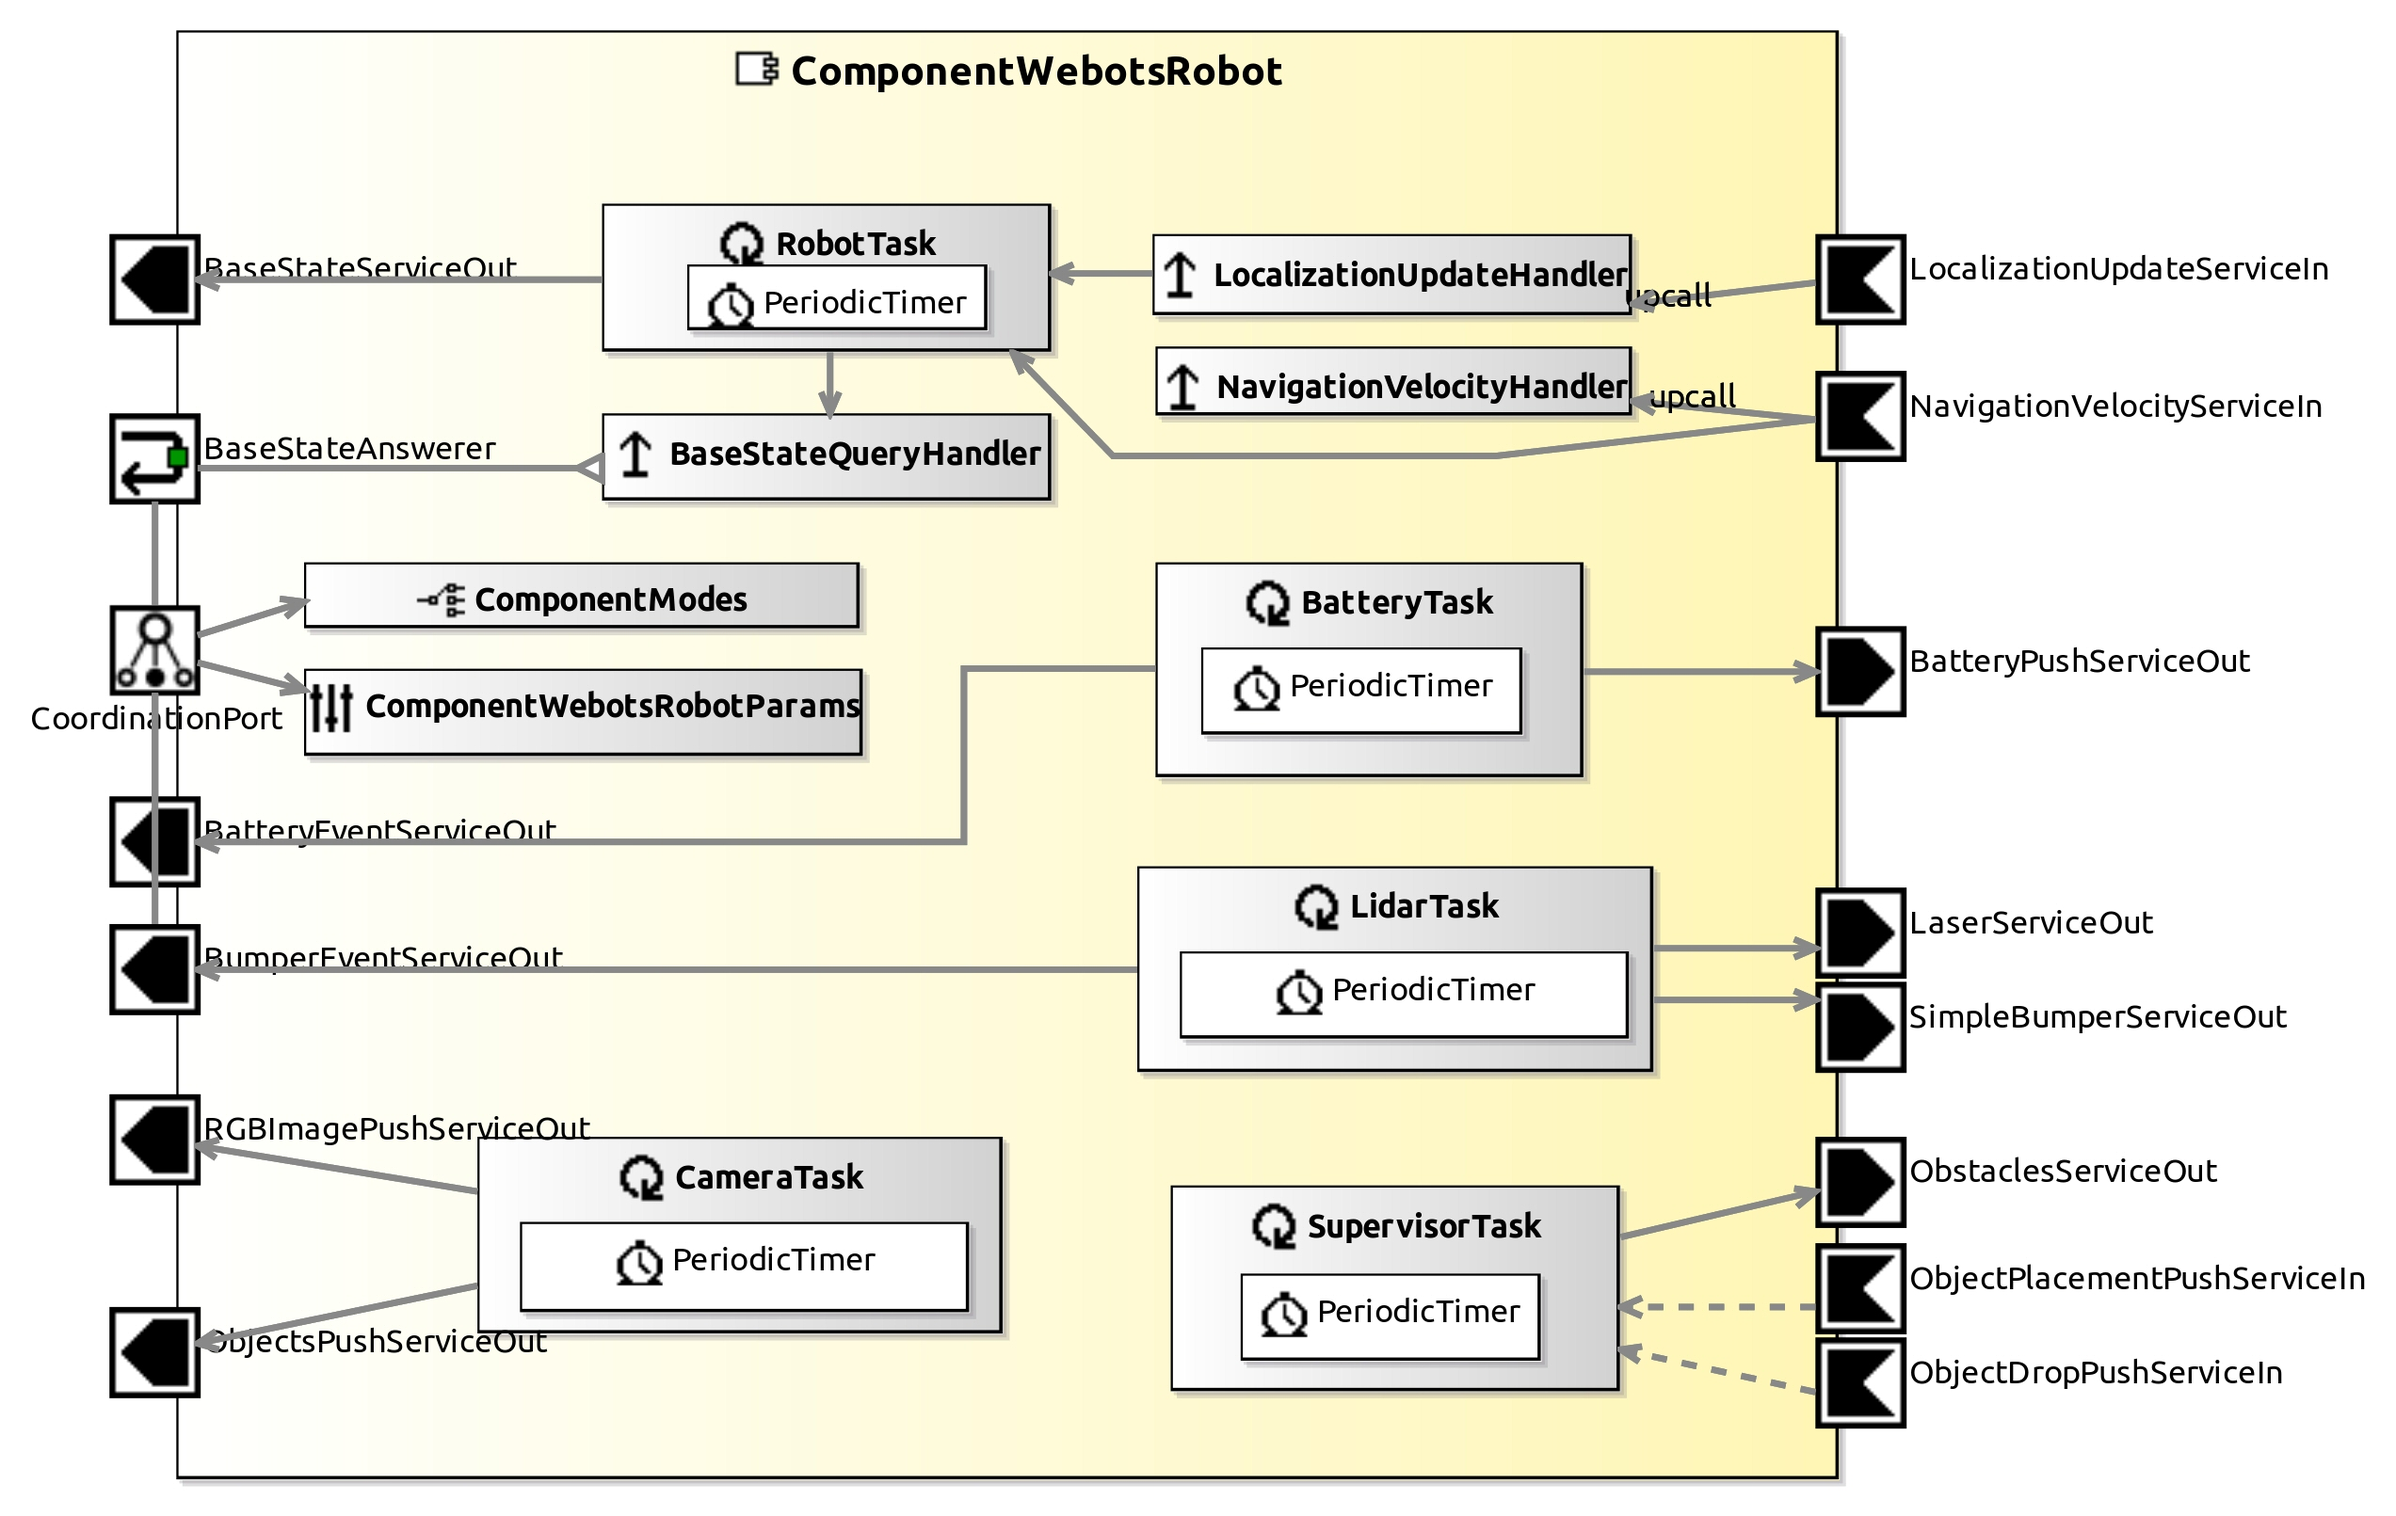
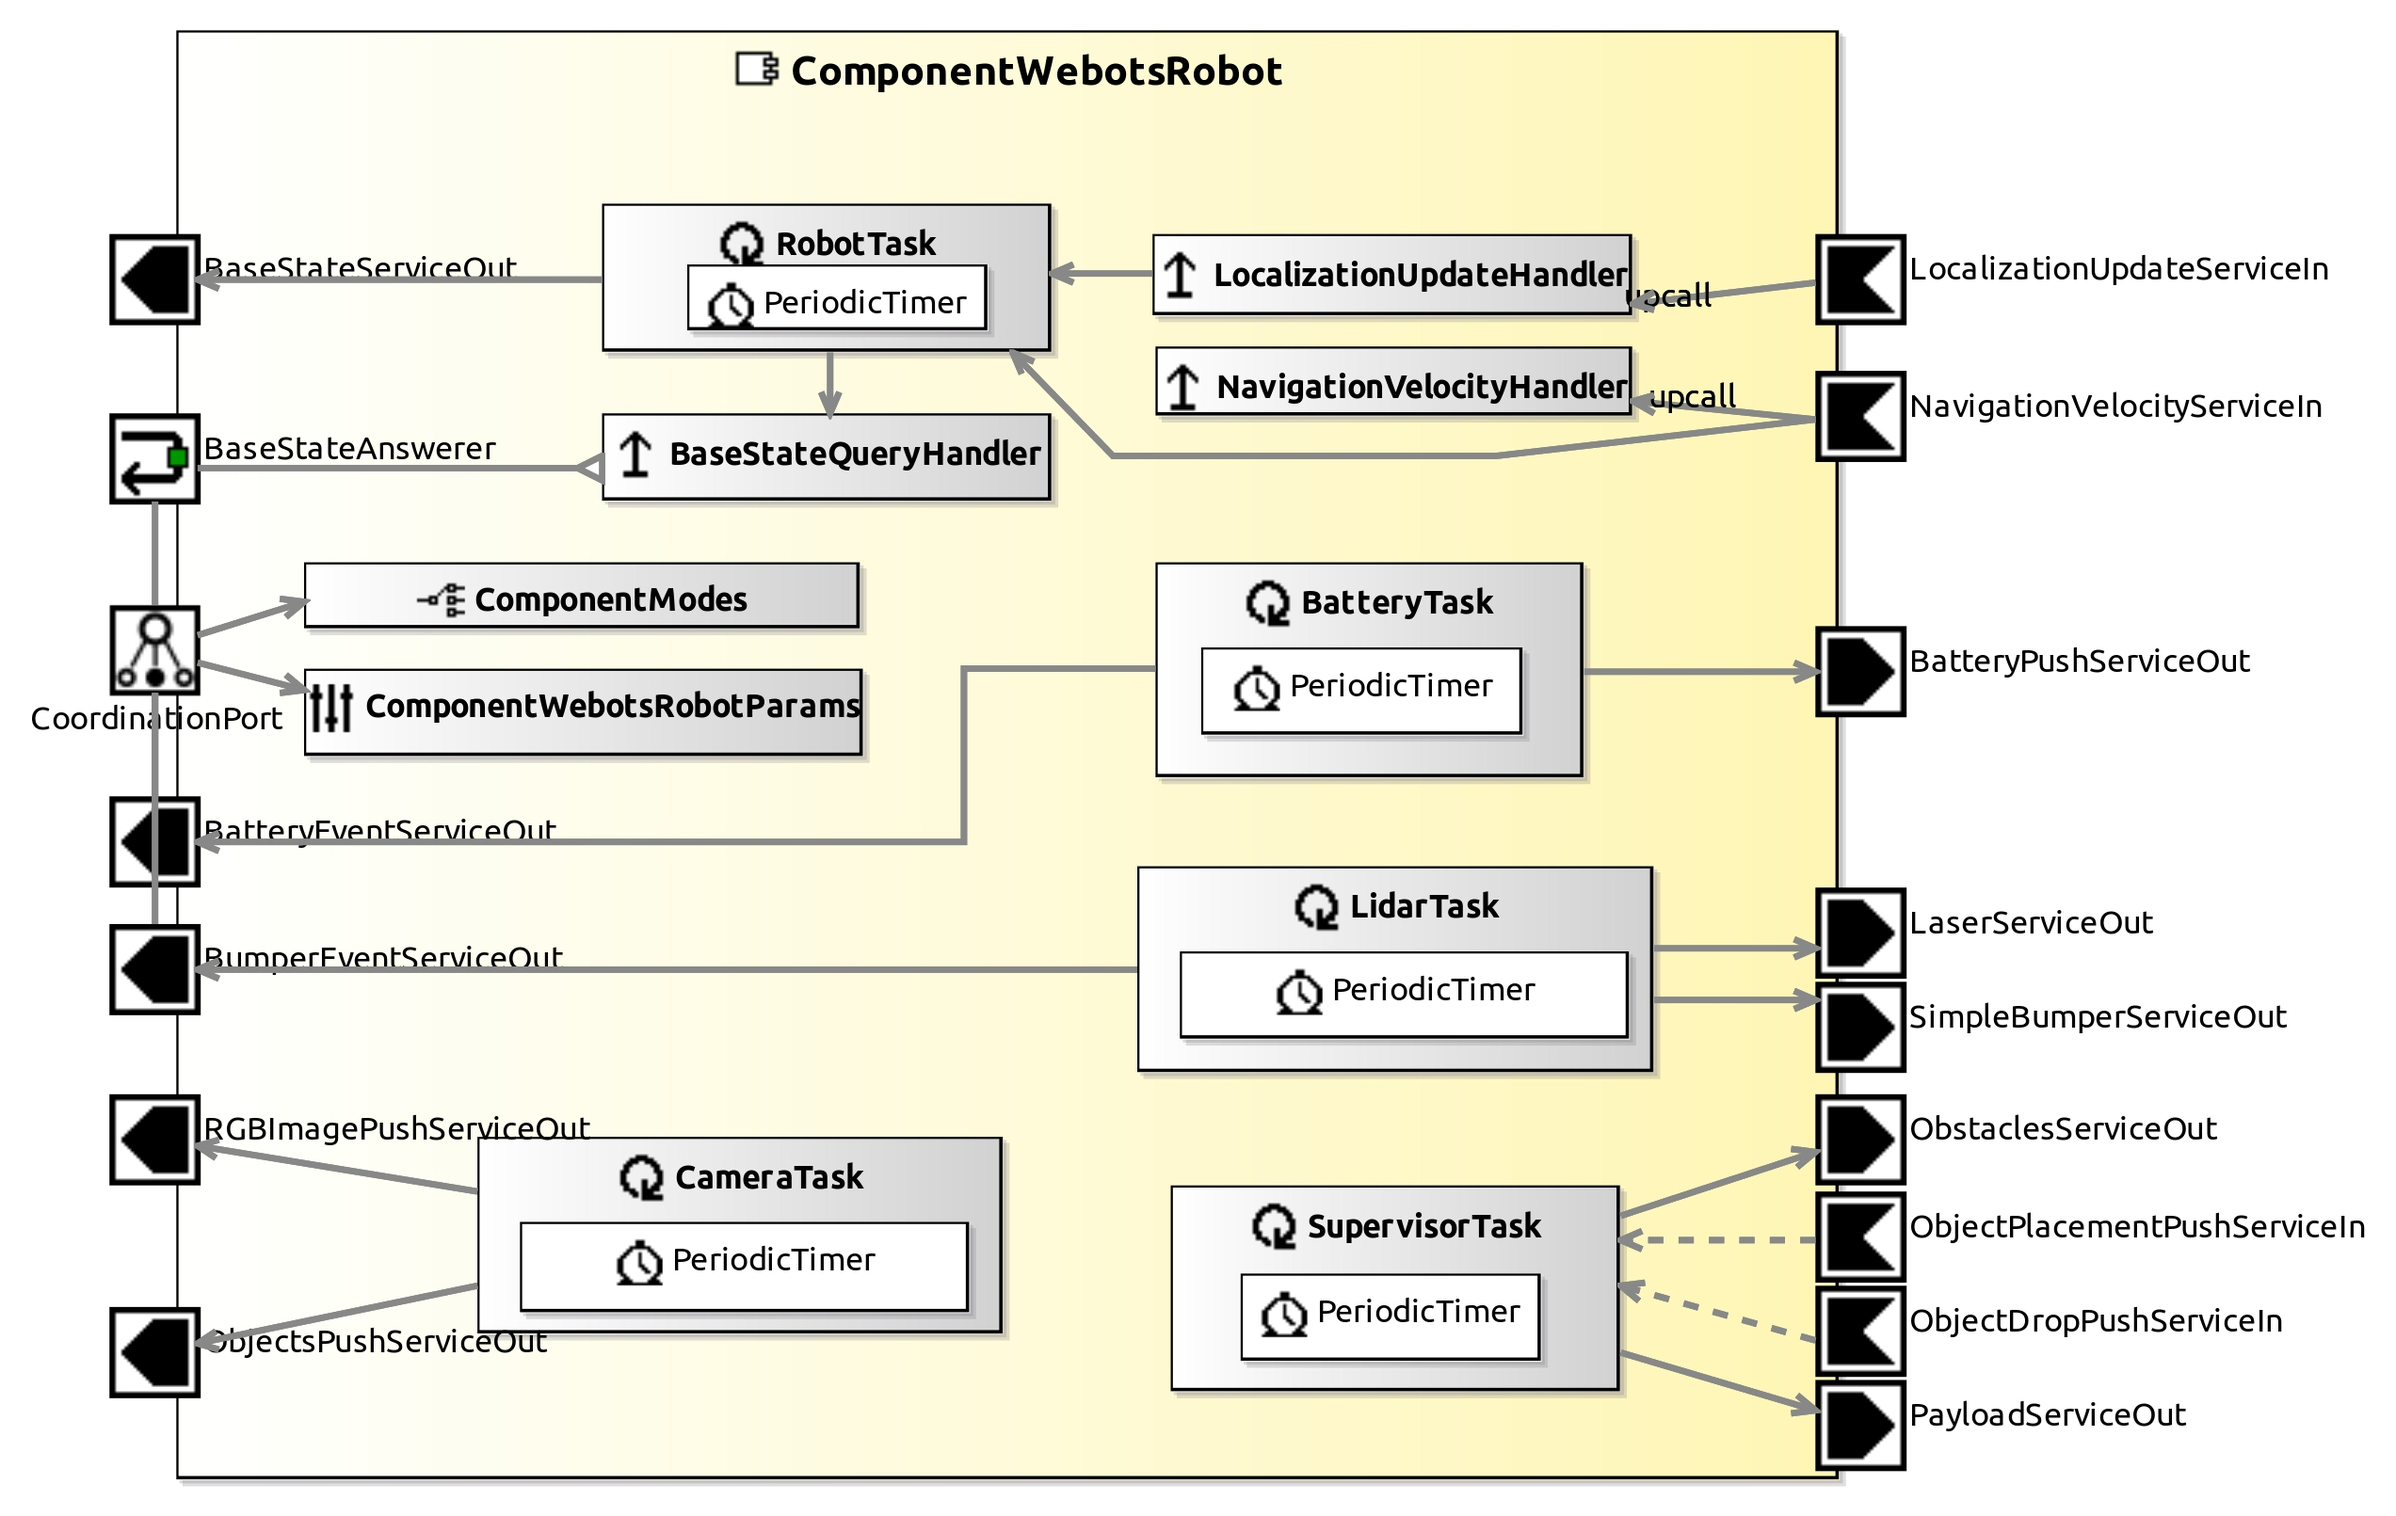
add robot_payload

Changed region(s): [[0.6519, 0.7138, 0.9933, 0.9932]]

diff --git a/ComponentWebotsRobot/smartsoft/src/SupervisorTask.cc b/ComponentWebotsRobot/smartsoft/src/SupervisorTask.cc
@@ -1,7 +1,7 @@
 //--------------------------------------------------------------------------
 // Code generated by the SmartSoft MDSD Toolchain
 // The SmartSoft Toolchain has been developed by:
-//  
+//
 // Service Robotics Research Center
 // University of Applied Sciences Ulm
 // Prittwitzstr. 10
@@ -10,8 +10,8 @@
 // Information about the SmartSoft MDSD Toolchain is available at:
 // www.servicerobotik-ulm.de
 //
-// This file is generated once. Modify this file to your needs. 
-// If you want the toolchain to re-generate this file, please 
+// This file is generated once. Modify this file to your needs.
+// If you want the toolchain to re-generate this file, please
 // delete it before running the code generator.
 //--------------------------------------------------------------------------
 #include "SupervisorTask.hh"
@@ -20,116 +20,138 @@
 #include <iostream>
 
 std::unordered_map<std::string, std::string> SupervisorTask::objects_names = {
-	{"WOODENBOX","WoodenBox"}
-};
+		{"WOODENBOX", "WoodenBox"}};
 
-SupervisorTask::SupervisorTask(SmartACE::SmartComponent *comp) 
-:	SupervisorTaskCore(comp),
-	object_offset({0,0,0})
-{}
-SupervisorTask::~SupervisorTask() 
-{}
+SupervisorTask::SupervisorTask(SmartACE::SmartComponent *comp)
+		: SupervisorTaskCore(comp),
+			object_offset({0, 0, 0}),
+			payload(0)
+{
+}
+SupervisorTask::~SupervisorTask()
+{
+}
 
 void SupervisorTask::on_ObjectDropPushServiceIn(
-		const DomainSpeech::CommObjectDropOutputMessage &input){
-  COMP->mRobotMutex.acquire();
-  
+		const DomainSpeech::CommObjectDropOutputMessage &input)
+{
+	COMP->mRobotMutex.acquire();
+
 	int index = input.getObj_carried_index();
-	if (index < -1) {
+	if (index < -1)
+	{
 		COMP->mRobotMutex.release();
 		return;
 	}
-	else if (index == -1) {
-		for (auto& obj : carried_obj_index) {
-			if (obj > index)
-				index = obj;
+	else if (index == -1)
+	{
+		for (auto &obj : carried_obj_index_mass)
+		{
+			if (obj.first > index)
+				index = obj.first;
 		}
 	}
-	else {
+	else
+	{
 		bool found = false;
-		for (auto& obj : carried_obj_index) {
-			if (obj == index)
+		for (auto &obj : carried_obj_index_mass)
+		{
+			if (obj.first == index)
 				found = true;
-				break;
+			break;
 		}
-		if (!found) {
+		if (!found)
+		{
 			COMP->mRobotMutex.release();
 			return;
 		}
 	}
 
 	webots::Node *root = COMP->_supervisor->getRoot();
-  auto children = root->getField("children");
+	auto children = root->getField("children");
 	children->removeMF(index);
 	int index_to_remove = -2;
-	for (size_t i = 0; i < carried_obj_index.size(); ++i) {
-		if (carried_obj_index[i] > index)
-			carried_obj_index[i]-=1;
-		else if (carried_obj_index[i] == index)
+	for (size_t i = 0; i < carried_obj_index_mass.size(); ++i)
+	{
+		if (carried_obj_index_mass[i].first > index)
+			carried_obj_index_mass[i].first -= 1;
+		else if (carried_obj_index_mass[i].first == index)
 			index_to_remove = i;
 	}
 	if (index_to_remove != -2)
-		carried_obj_index.erase(carried_obj_index.begin()+index_to_remove);
-	
+	{
+		payload -= carried_obj_index_mass[index_to_remove].second;
+		carried_obj_index_mass.erase(carried_obj_index_mass.begin() +
+																 index_to_remove);
+	}
 	COMP->mRobotMutex.release();
 }
 
 void SupervisorTask::on_ObjectPlacementPushServiceIn(
 		const DomainSpeech::CommObjectPlacementOutputMessage &input)
 {
-  COMP->mRobotMutex.acquire();
-	
+	COMP->mRobotMutex.acquire();
+
 	std::string type = objects_names[input.getObjectType()];
-	if (type == "") {
+	if (type == "")
+	{
 		COMP->mRobotMutex.release();
 		return;
 	}
 
 	std::vector<std::string> sizes;
-	for (size_t i = 0; i < input.getObjectSizeSize(); ++i) {
-		if (input.getObjectSizeElemAtPos(i) > object_max_size)	
+	for (size_t i = 0; i < input.getObjectSizeSize(); ++i)
+	{
+		if (input.getObjectSizeElemAtPos(i) > object_max_size)
 			return;
 		sizes.push_back(std::to_string(input.getObjectSizeElemAtPos(i)));
 	}
 	std::array<std::string, 3> robot_position = {
-      std::to_string(COMP->_pose->get_base_position().get_x(1) + object_offset[0]),
-      std::to_string(object_offset[1]),
-      std::to_string(-COMP->_pose->get_base_position().get_y(1) + object_offset[2])
-			};
+			std::to_string(COMP->_pose->get_base_position().get_x(1) + 
+				object_offset[0]),
+			std::to_string(object_offset[1]),
+			std::to_string(-COMP->_pose->get_base_position().get_y(1) + 
+				object_offset[2])};
 
 	std::string obj = type + " {" + "translation " + robot_position[0] + " " +
-		robot_position[1] + " " + robot_position[2] + " size ";
-	
-	for (auto& s : sizes)
-		obj += s + " "; 
-	obj += "mass " + std::to_string(input.getObjectMass()) + "}";
-	
-	webots::Node *root = COMP->_supervisor->getRoot();
-  auto children = root->getField("children");
-  children->importMFNodeFromString(-1, obj);
-  carried_obj_index.push_back(children->getCount() - 1);
+										robot_position[1] + " " + robot_position[2] + " size ";
 
-  COMP->mRobotMutex.release();
+	for (auto &s : sizes)
+		obj += s + " ";
+	obj += "mass " + std::to_string(input.getObjectMass()) + "}";
+
+	webots::Node *root = COMP->_supervisor->getRoot();
+	auto children = root->getField("children");
+	children->importMFNodeFromString(-1, obj);
+	carried_obj_index_mass.push_back(std::make_pair(children->getCount() - 1,
+																									input.getObjectMass()));
+	payload += input.getObjectMass();
+
+	COMP->mRobotMutex.release();
 }
 
 int SupervisorTask::on_entry()
 {
-  COMP->mRobotMutex.acquire();
+	COMP->mRobotMutex.acquire();
 	obstacles = extractStaticObstacles();
-	object_max_size = COMP->getGlobalState().getHri().
-    getMax_size();
+	object_max_size = COMP->getGlobalState().getHri().getMax_size();
 	auto offset = COMP->getGlobalState().getHri().getOffset();
 	object_offset.clear();
 	for (auto o : offset)
 		object_offset.push_back(o);
-  COMP->mRobotMutex.release();
+	COMP->mRobotMutex.release();
 	return 0;
 }
 int SupervisorTask::on_execute()
 {
-  COMP->mRobotMutex.acquire();
+	COMP->mRobotMutex.acquire();
+
 	obstaclesServiceOutPut(obstacles);
-  COMP->mRobotMutex.release();
+
+	CommBasicObjects::RobotPayload robot_payload;
+	robot_payload.setMass(payload);
+	payloadServiceOutPut(robot_payload);
+	COMP->mRobotMutex.release();
 	return 0;
 }
 int SupervisorTask::on_exit()
@@ -138,35 +160,41 @@ int SupervisorTask::on_exit()
 	return 0;
 }
 
-CommNavigationObjects::BoundingBoxes SupervisorTask::extractStaticObstacles() {
+CommNavigationObjects::BoundingBoxes SupervisorTask::extractStaticObstacles()
+{
 	CommNavigationObjects::BoundingBoxes bounding_boxes;
 	std::vector<CommNavigationObjects::BoundingBox> boxes;
 
 	webots::Node *root = COMP->_supervisor->getRoot();
-  auto children = root->getField("children");
+	auto children = root->getField("children");
 	size_t number_of_nodes = children->getCount();
 	for (size_t i = 0; i < number_of_nodes; ++i)
 	{
 		auto node = children->getMFNode(i);
-		if (node->getTypeName() == "Floor" && 
-			node->getField("name")->getSFString() == "floor") {
+		if (node->getTypeName() == "Floor" &&
+				node->getField("name")->getSFString() == "floor")
+		{
 			bounding_boxes.setFloor(webotsNodeSize2DToBoundingBox(node));
 		}
-		else if (node->getTypeName() == "OilBarrel") {
+		else if (node->getTypeName() == "OilBarrel")
+		{
 			boxes.push_back(webotsNodeCylinderToBoundingBox(node));
 		}
 		else if (node->getTypeName() == "Door" ||
 						 node->getTypeName() == "WoodenPallet" ||
 						 node->getTypeName() == "Table" ||
 						 node->getTypeName() == "CardboardBox" ||
-						 node->getTypeName() == "Wall" || 
-						 node->getTypeName() == "WoodenBox") {
+						 node->getTypeName() == "Wall" ||
+						 node->getTypeName() == "WoodenBox")
+		{
 			boxes.push_back(webotsNodeSize3DToBoundingBox(node));
 		}
-		else if (node->getTypeName() == "WoodenPalletStack") {
+		else if (node->getTypeName() == "WoodenPalletStack")
+		{
 			boxes.push_back(webotsPalletToBoundingBox(node));
 		}
-		else if (node->getTypeName() == "Cabinet") {
+		else if (node->getTypeName() == "Cabinet")
+		{
 			boxes.push_back(webotsCabinetToBoundingBox(node));
 		}
 	}
